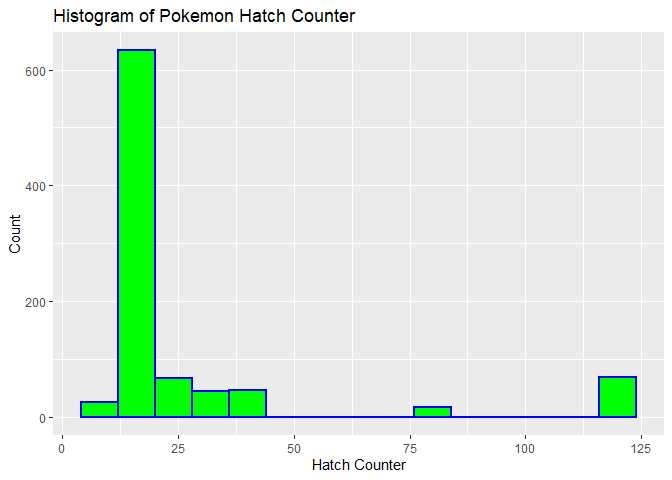
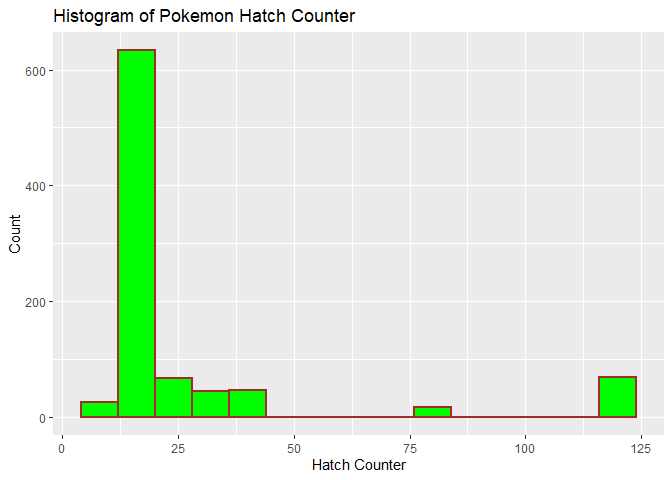
added scatter plot

diff --git a/README.md b/README.md
@@ -743,15 +743,11 @@ combineSpeciesStage<-inner_join(moreAllSpecies,allStages,by="species")
 
 
 g <- ggplot(combineSpeciesStage, aes(x = stages))
-g + geom_bar(aes(fill=(rare)),position = "dodge")
+g + geom_bar(aes(fill=(rare)),position = "dodge") + scale_fill_discrete(name="Species\nCategories")   + labs(x="Evolution Stages", y="Count",
+  title = "Bar Plot of Evolution Stages for Rare and Regular Species")
 ```
 
 ![](images/bar%20plot-1.png)<!-- -->
-
-``` r
-#g<-ggplot(data=crabs,aes(x=color))
-#g + geom_bar(aes(fill=(y)),position = "dodge") + labs(x="Female Crab Color") + scale_fill_discrete(name="") + coord_flip()  + theme(axis.title.x = element_text(size = 14),axis.title.y = element_text(size = 14))
-```
 
 ### Histogram
 
@@ -762,7 +758,7 @@ Body’s.”
 ``` r
 ###creating histogam of hatch_counter data 
 g <- ggplot(moreAllSpecies, aes(x = hatch_counter))
-g + geom_histogram(binwidth=8,color = "blue", fill = "green", 
+g + geom_histogram(binwidth=8,color = "brown", fill = "green", 
                                      size = 1)  + labs(x="Hatch Counter", y="Count",
   title = "Histogram of Pokemon Hatch Counter")
 ```
@@ -776,8 +772,8 @@ g + geom_histogram(binwidth=8,color = "blue", fill = "green",
 ###Add correlation as text
 
 
-g<-ggplot(data = comboSpeciesPoke,aes(x=weight,y=height))
-g+geom_point(aes(color=type_one))
+g<-ggplot(data = comboSpeciesPoke,aes(x=capture_rate,y=totalPts))
+g+geom_point(aes(color=common))
 ```
 
 ![](images/scatter%20plotpointsbyCapture-1.png)<!-- -->
